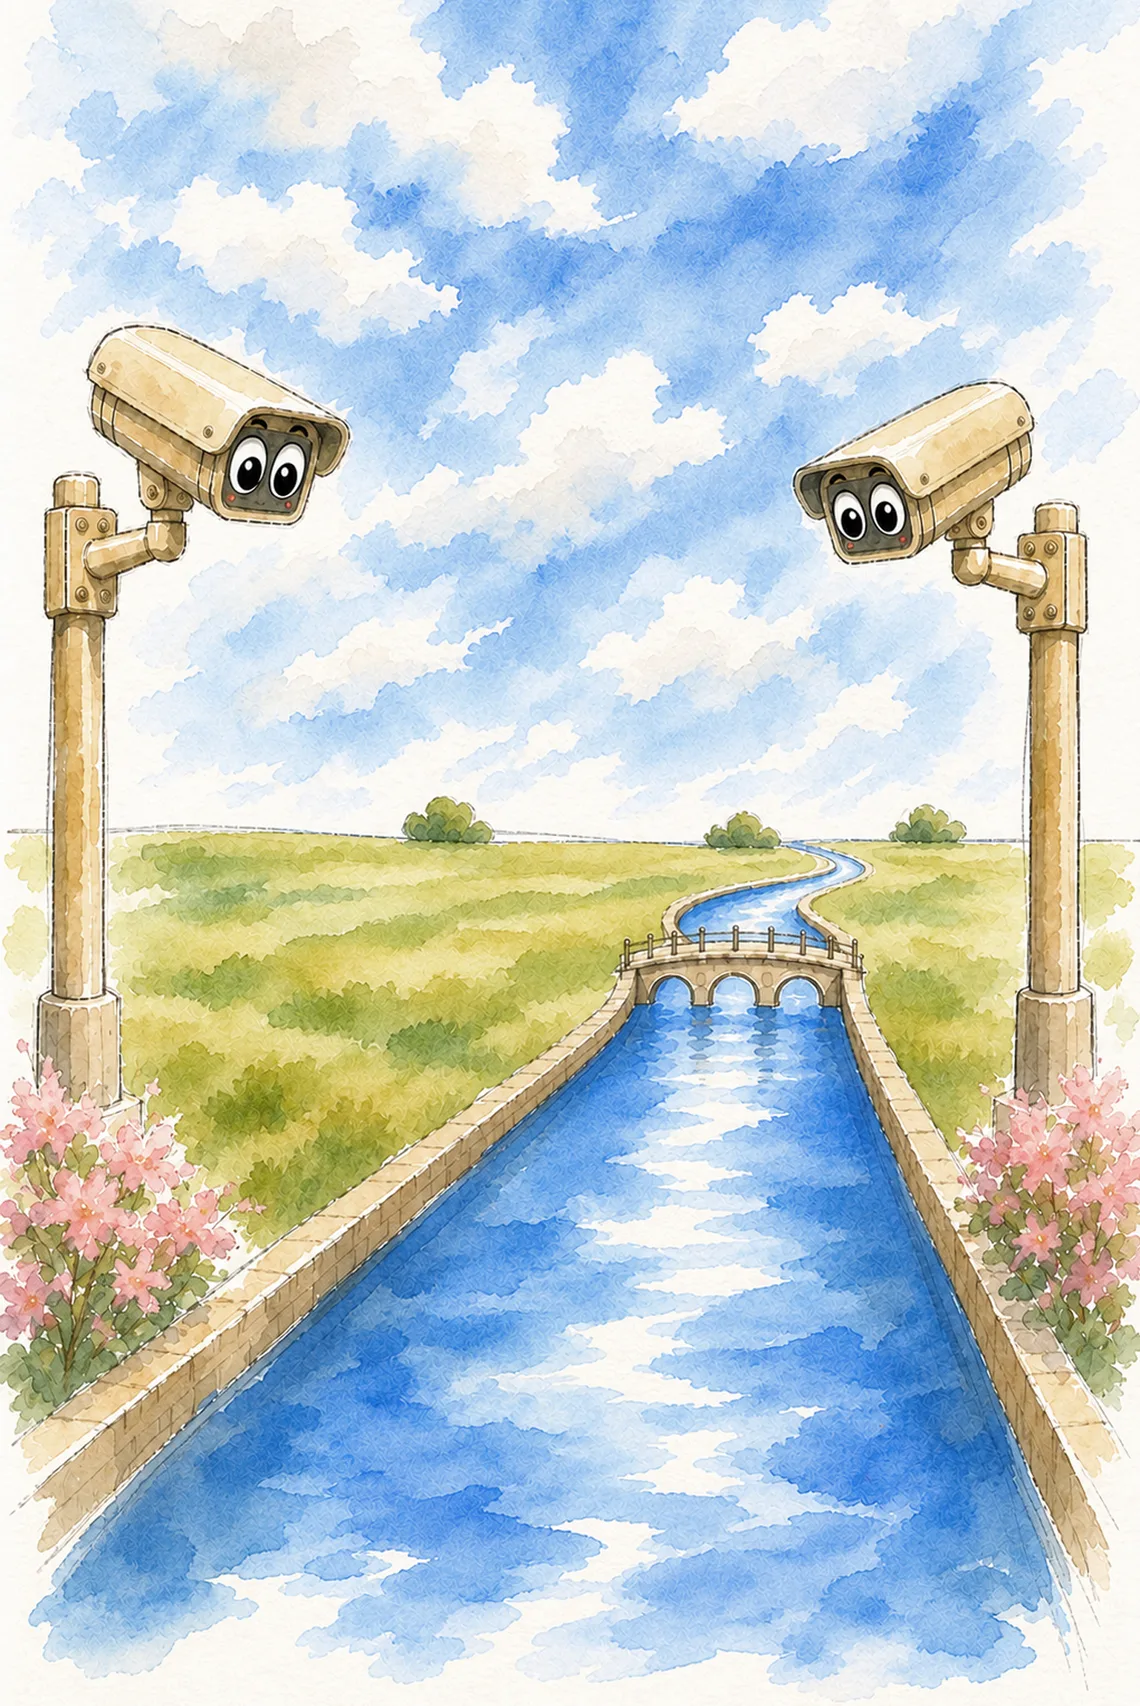
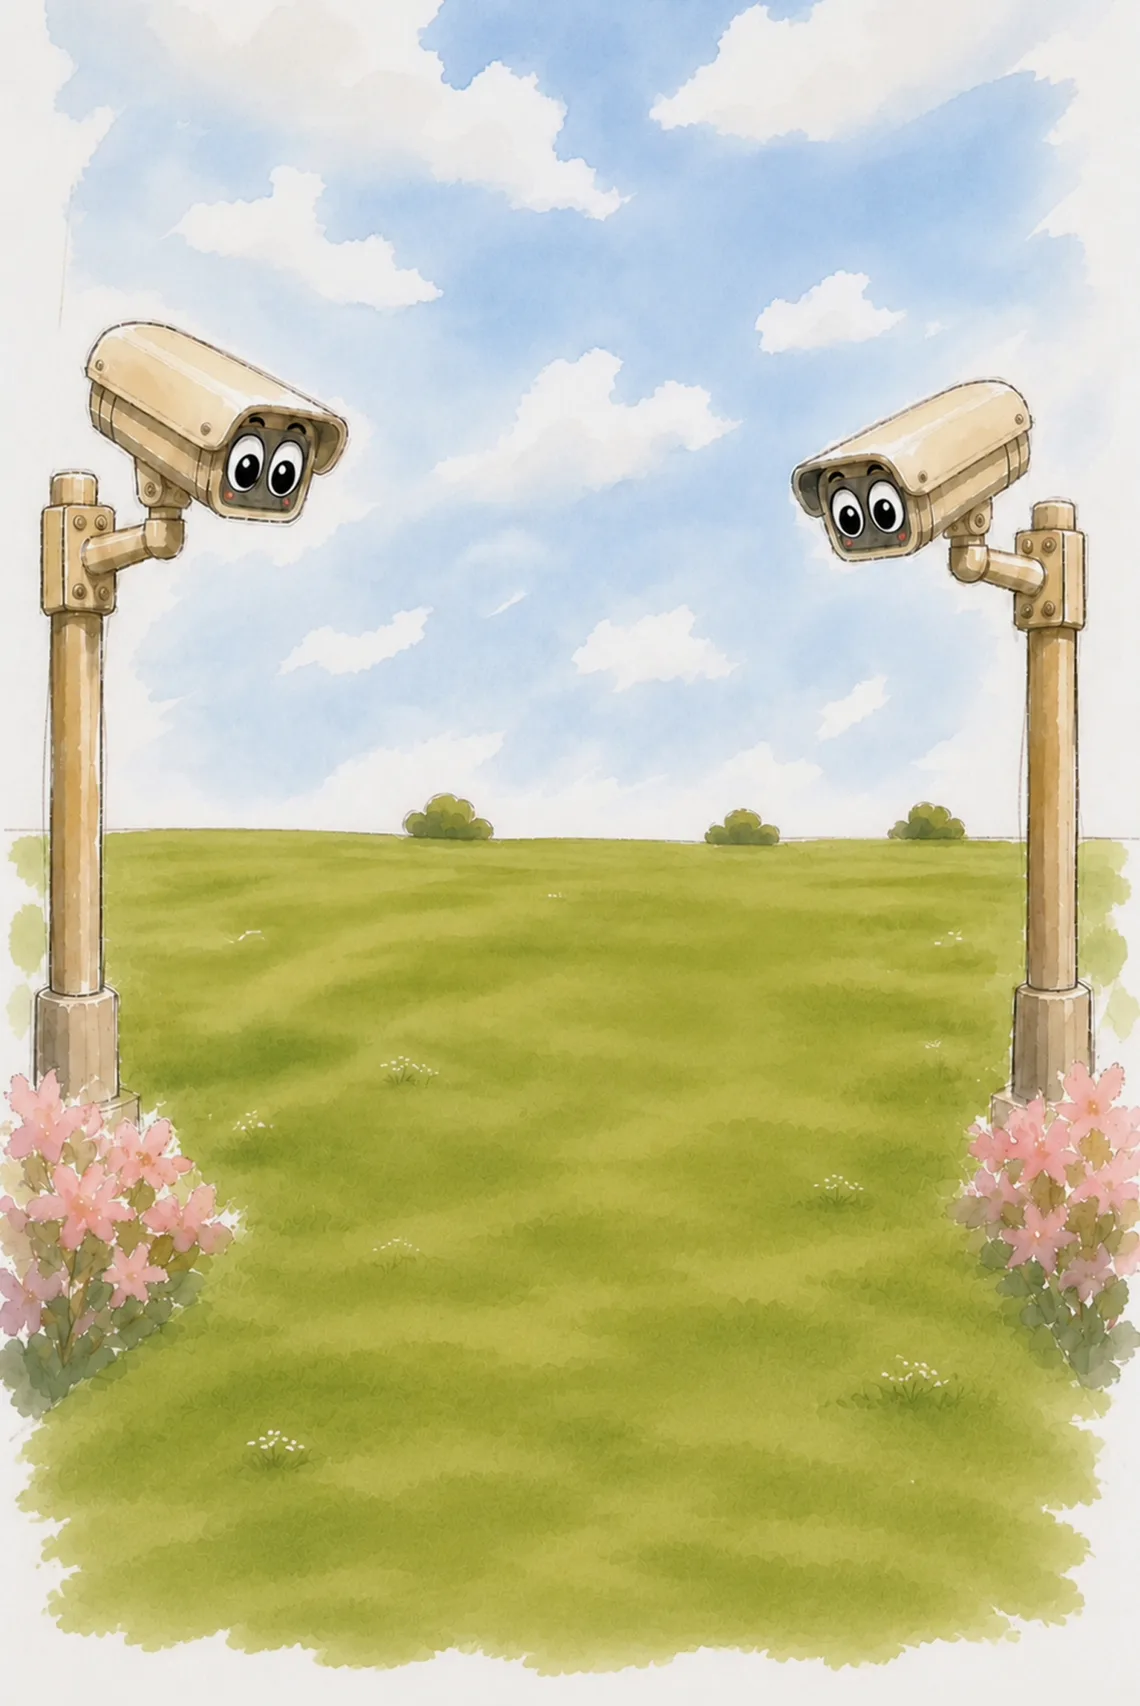
feat(scenery): ship the V33 home plain and the V32 burrow, with the mobile band re-measured on the new burrow

diff --git a/ios/WarrenVPN/View controllers/Tunnel/SceneryLayout.swift b/ios/WarrenVPN/View controllers/Tunnel/SceneryLayout.swift
@@ -24,22 +24,24 @@ enum SceneryLayout {
     static let feetRow: CGFloat = 1124
 
     /// The first canvas row the burrow layer paints fully opaque across the whole width
-    /// (`terrier.png`, first row whose every column has alpha >= 250, contiguous to the last row).
-    /// Everything below it is one uniform watercolour meadow, which is why scaling only those rows
-    /// continues the ground with no seam and no repetition.
-    static let groundRow: CGFloat = 1301
+    /// (`terrier.png`, first row whose every column has alpha >= 250, contiguous to the last row;
+    /// Terrier V32 misses it at row 1301 by its last two columns). Everything below it is one
+    /// uniform watercolour meadow, which is why scaling only those rows continues the ground with
+    /// no seam and no repetition.
+    static let groundRow: CGFloat = 1302
 
     /// The last canvas row of the meadow before the wash runs out into bare paper: the band's row
-    /// mean climbs 34 levels of 255 over rows 1681 to 1705. The band is scaled so this row lands on
-    /// the screen's bottom edge and the paper rows fall below it.
+    /// mean stays within 34 levels of 255 of it down to row 1701, then climbs to paper. The band is
+    /// scaled so this row lands on the screen's bottom edge and the paper rows fall below it.
     static let meadowEndRow: CGFloat = 1670
 
     /// Canvas columns dropped from each side of the stretched band. The watercolour fades into
-    /// paper at the canvas edges, which the blurred band this replaced used to hide: measured on a
-    /// 1080x2400 screen, the leftmost screen column read 1.60 times the mid-frame brightness, and
-    /// dropping 20 columns brings it to 0.98. The right side fades over about 60 columns and is the
+    /// paper at the canvas edges, which the blurred band this replaced used to hide. On Terrier V32
+    /// the band's column brightness first falls to 1.09 times the mid-frame mean at column 64, and
+    /// on a 1080x2400 screen dropping 20 columns left the leftmost one at 1.24, a pale strip down
+    /// the meadow, against 1.06 with 64. The right side fades over about 60 columns and is the
     /// hill's own sunlit edge rather than an artifact, so it is left alone.
-    static let bandOverscanColumns: CGFloat = 20
+    static let bandOverscanColumns: CGFloat = 64
 
     /// The top of the country flag: the highest thing on the canvas that has to stay on screen.
     /// Measured on the flag's own fabric (Finland rows 463 to 531), with headroom, and the other

diff --git a/android/lib/feature/home/impl/src/main/kotlin/com/warrenbrowse/vpn/feature/home/impl/connect/SceneryLayout.kt b/android/lib/feature/home/impl/src/main/kotlin/com/warrenbrowse/vpn/feature/home/impl/connect/SceneryLayout.kt
@@ -31,27 +31,29 @@ internal object SceneryLayout {
 
     /**
      * The first canvas row the burrow layer paints fully opaque across the whole width
-     * (`terrier.png`, first row whose every column has alpha >= 250, contiguous to the last row).
-     * Everything below it is one uniform watercolour meadow, which is why scaling only those rows
-     * continues the ground with no seam and no repetition.
+     * (`terrier.png`, first row whose every column has alpha >= 250, contiguous to the last row;
+     * Terrier V32 misses it at row 1301 by its last two columns). Everything below it is one
+     * uniform watercolour meadow, which is why scaling only those rows continues the ground with no
+     * seam and no repetition.
      */
-    const val GROUND_ROW = 1301f
+    const val GROUND_ROW = 1302f
 
     /**
      * The last canvas row of the meadow before the wash runs out into bare paper: the band's row
-     * mean climbs 34 levels of 255 over rows 1681 to 1705. The band is scaled so this row lands on
-     * the screen's bottom edge and the paper rows fall below it.
+     * mean stays within 34 levels of 255 of it down to row 1701, then climbs to paper. The band is
+     * scaled so this row lands on the screen's bottom edge and the paper rows fall below it.
      */
     const val MEADOW_END_ROW = 1670f
 
     /**
      * Canvas columns dropped from each side of the stretched band. The watercolour fades into paper
-     * at the canvas edges, which the blurred band this replaced used to hide: measured on a
-     * 1080x2400 screen, the leftmost screen column read 1.60 times the mid-frame brightness, and
-     * dropping 20 columns brings it to 0.98. The right side fades over about 60 columns and is the
+     * at the canvas edges, which the blurred band this replaced used to hide. On Terrier V32 the
+     * band's column brightness first falls to 1.09 times the mid-frame mean at column 64, and on
+     * a 1080x2400 screen dropping 20 columns left the leftmost one at 1.24, a pale strip down the
+     * meadow, against 1.06 with 64. The right side fades over about 60 columns and is the
      * hill's own sunlit edge rather than an artifact, so it is left alone.
      */
-    const val BAND_OVERSCAN_COLUMNS = 20f
+    const val BAND_OVERSCAN_COLUMNS = 64f
 
     /**
      * The top of the country flag: the highest thing on the canvas that has to stay on screen.

diff --git a/ios/WarrenVPNTests/MullvadVPN/View controllers/Tunnel/SceneryLayoutTests.swift b/ios/WarrenVPNTests/MullvadVPN/View controllers/Tunnel/SceneryLayoutTests.swift
@@ -55,6 +55,9 @@ final class SceneryLayoutTests: XCTestCase {
         XCTAssertEqual(SceneryLayout.canvasHeight, canvas[1])
         XCTAssertEqual(SceneryLayout.feetRow, try number(fixture, "feet_row"))
         XCTAssertEqual(SceneryLayout.groundRow, try number(fixture, "ground_row"))
+        XCTAssertEqual(SceneryLayout.meadowEndRow, try number(fixture, "meadow_end_row"))
+        XCTAssertEqual(
+            SceneryLayout.bandOverscanColumns, try number(fixture, "band_overscan_columns"))
         XCTAssertEqual(SceneryLayout.gap, try number(fixture, "gap_dp"))
         XCTAssertEqual(SceneryLayout.maxCanvasPan, try number(fixture, "max_canvas_pan_dp"))
         XCTAssertEqual(SceneryLayout.flagTopRow, try number(fixture, "flag_top_row"))

diff --git a/android/lib/feature/home/impl/src/test/kotlin/com/warrenbrowse/vpn/feature/home/impl/connect/SceneryLayoutFixtureTest.kt b/android/lib/feature/home/impl/src/test/kotlin/com/warrenbrowse/vpn/feature/home/impl/connect/SceneryLayoutFixtureTest.kt
@@ -39,6 +39,11 @@ class SceneryLayoutFixtureTest {
         assertEquals(SceneryLayout.CANVAS_HEIGHT, canvas[1])
         assertEquals(SceneryLayout.FEET_ROW, fixture.float("feet_row"))
         assertEquals(SceneryLayout.GROUND_ROW, fixture.float("ground_row"))
+        assertEquals(SceneryLayout.MEADOW_END_ROW, fixture.float("meadow_end_row"))
+        assertEquals(
+            SceneryLayout.BAND_OVERSCAN_COLUMNS,
+            fixture.float("band_overscan_columns"),
+        )
         assertEquals(SceneryLayout.GAP_DP, fixture.float("gap_dp"))
         assertEquals(SceneryLayout.MAX_CANVAS_PAN_DP, fixture.float("max_canvas_pan_dp"))
         assertEquals(SceneryLayout.FLAG_TOP_ROW, fixture.float("flag_top_row"))

diff --git a/docs/SCENERY-ART.md b/docs/SCENERY-ART.md
@@ -16,7 +16,19 @@ designer as a numbered version (V14, V15, ...) of full-canvas masters.
    entry for a new country (`slug`, `role: "country"`, its ISO `country` code,
    its English relay-list `countryName`, `master`, `iosImageset`). Then run
    `process-scenery.sh` with no arguments; it encodes exactly the layers that
-   table lists.
+   table lists. When a delivery replaces only some masters (the plain and the
+   burrow, say) and the others are not at hand, name the layers to encode:
+   `process-scenery.sh <src-dir> plaine terrier`. The other layers keep their
+   shipped files instead of being re-encoded from a WebP, and each named layer
+   is still emitted for all three clients.
+
+   A new burrow layer moves the rows the mobile layout keys on: the first
+   fully opaque row (`ground_row`), the end of the meadow (`meadow_end_row`) and
+   the paper fade at the left edge (`band_overscan_columns`). Measure them on the
+   encoded `terrier.webp` with the definitions in
+   `fixtures/client-rules/scenery_layout.json`, update that fixture's values,
+   provenance and case expectations, then the constants of `SceneryLayout.kt`
+   and `SceneryLayout.swift`. Both test suites pin the constants to the fixture.
 3. `process-scenery.sh` ends by running `scripts/gen-scenery-tables.mjs`, which
    rewrites the `GENERATED scenery table` blocks of the Android and iOS
    resolvers (`ConnectionPhase.kt`, `MapViewController.swift`: countries by ISO
